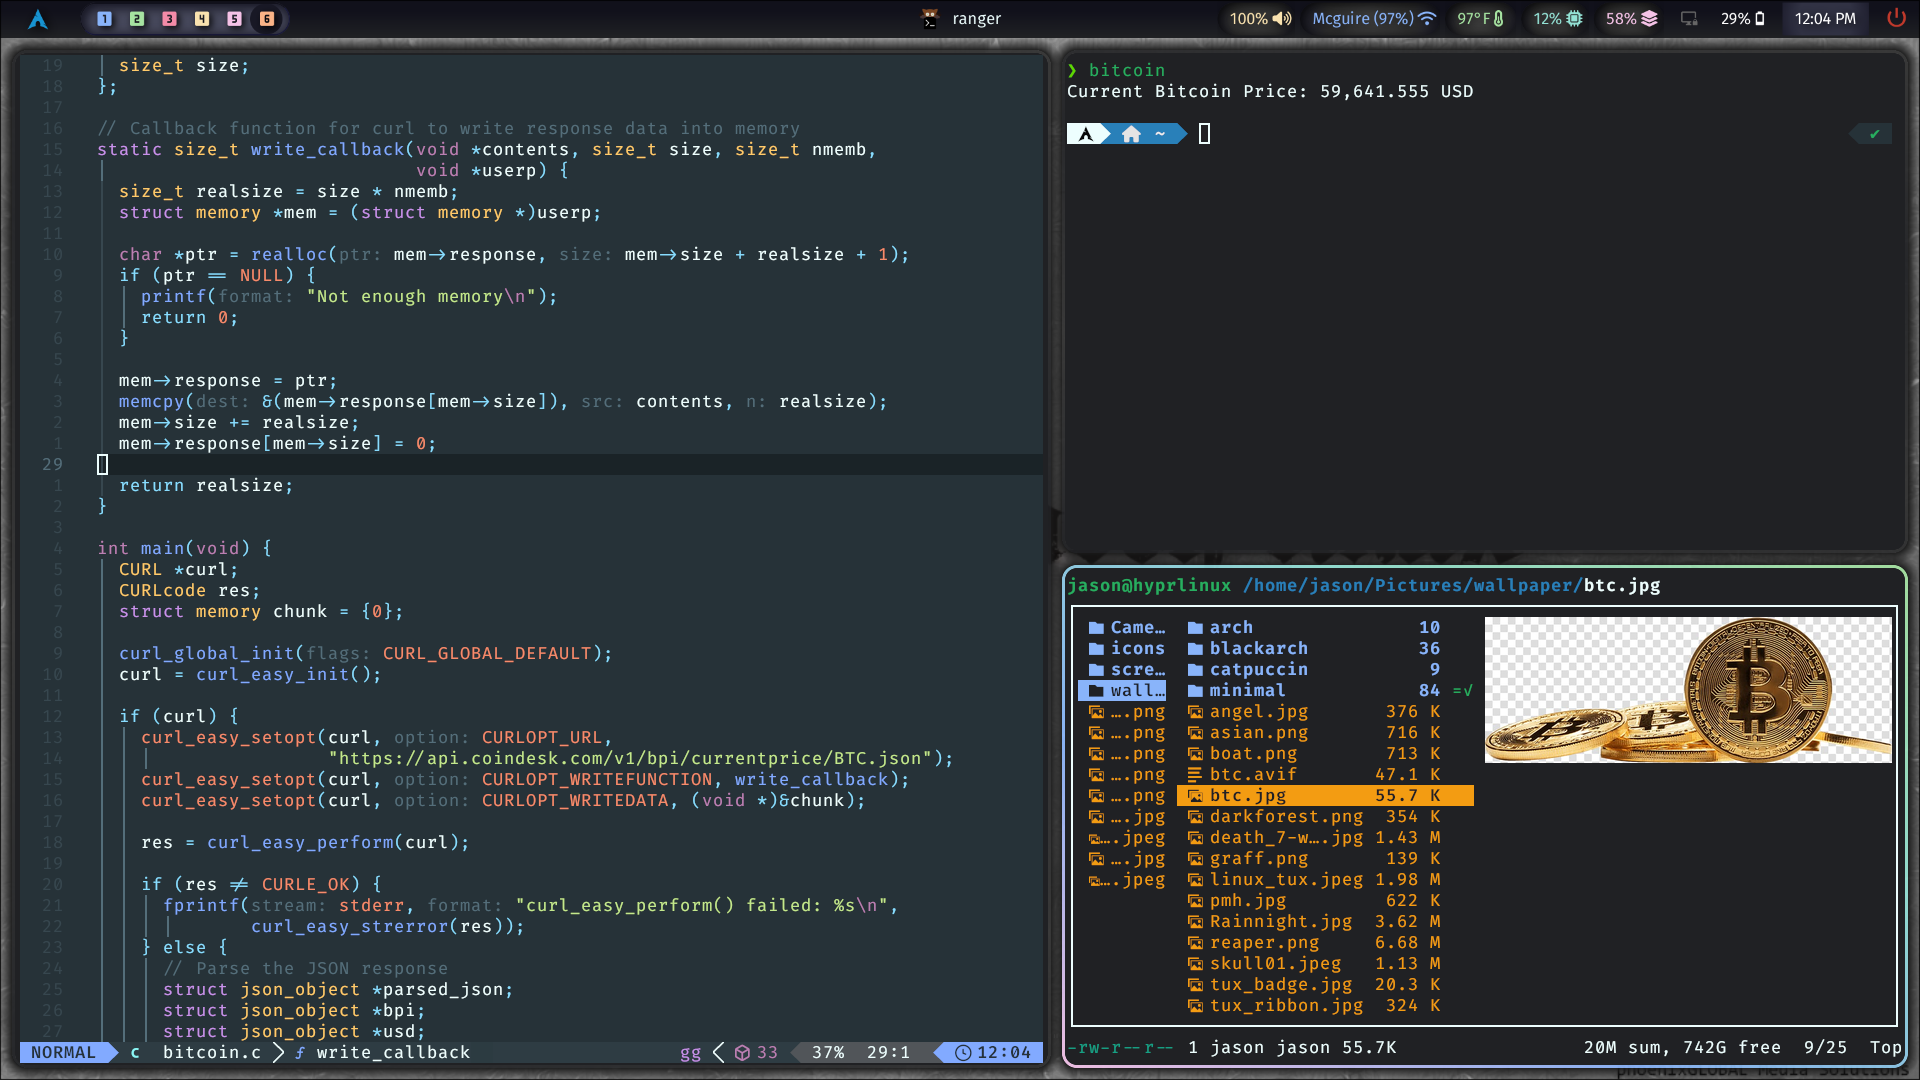
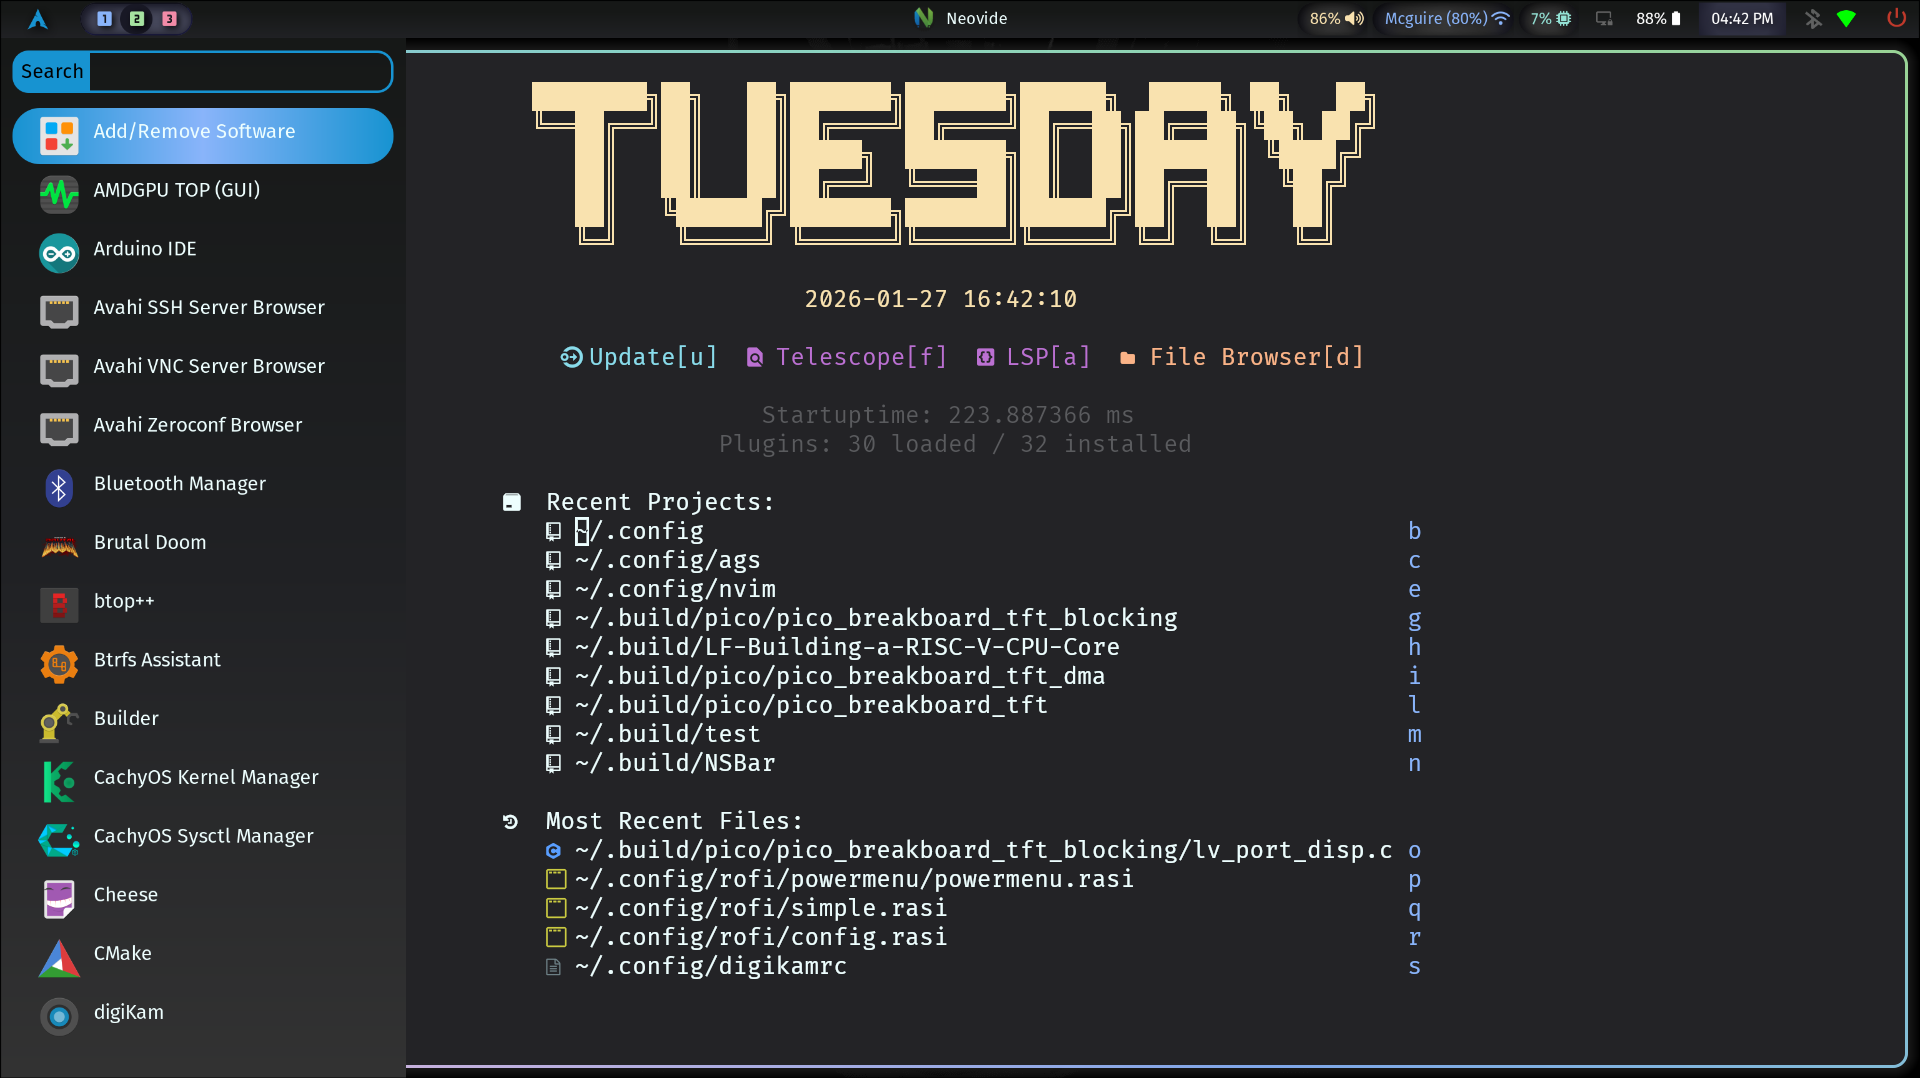
20260127

diff --git a/README.md b/README.md
@@ -9,10 +9,6 @@ ___
 
 ![desktop-hypr](screenshots/desktop-hypr.png)
 
-![tmux](screenshots/tmux.png)
+![zellij](screenshots/zellij.png)
 
 ![desktop2](screenshots/desktop2.png)
-
-![desktop](screenshots/desktop.png)
-
-![desktop3](screenshots/desktop3.png)
